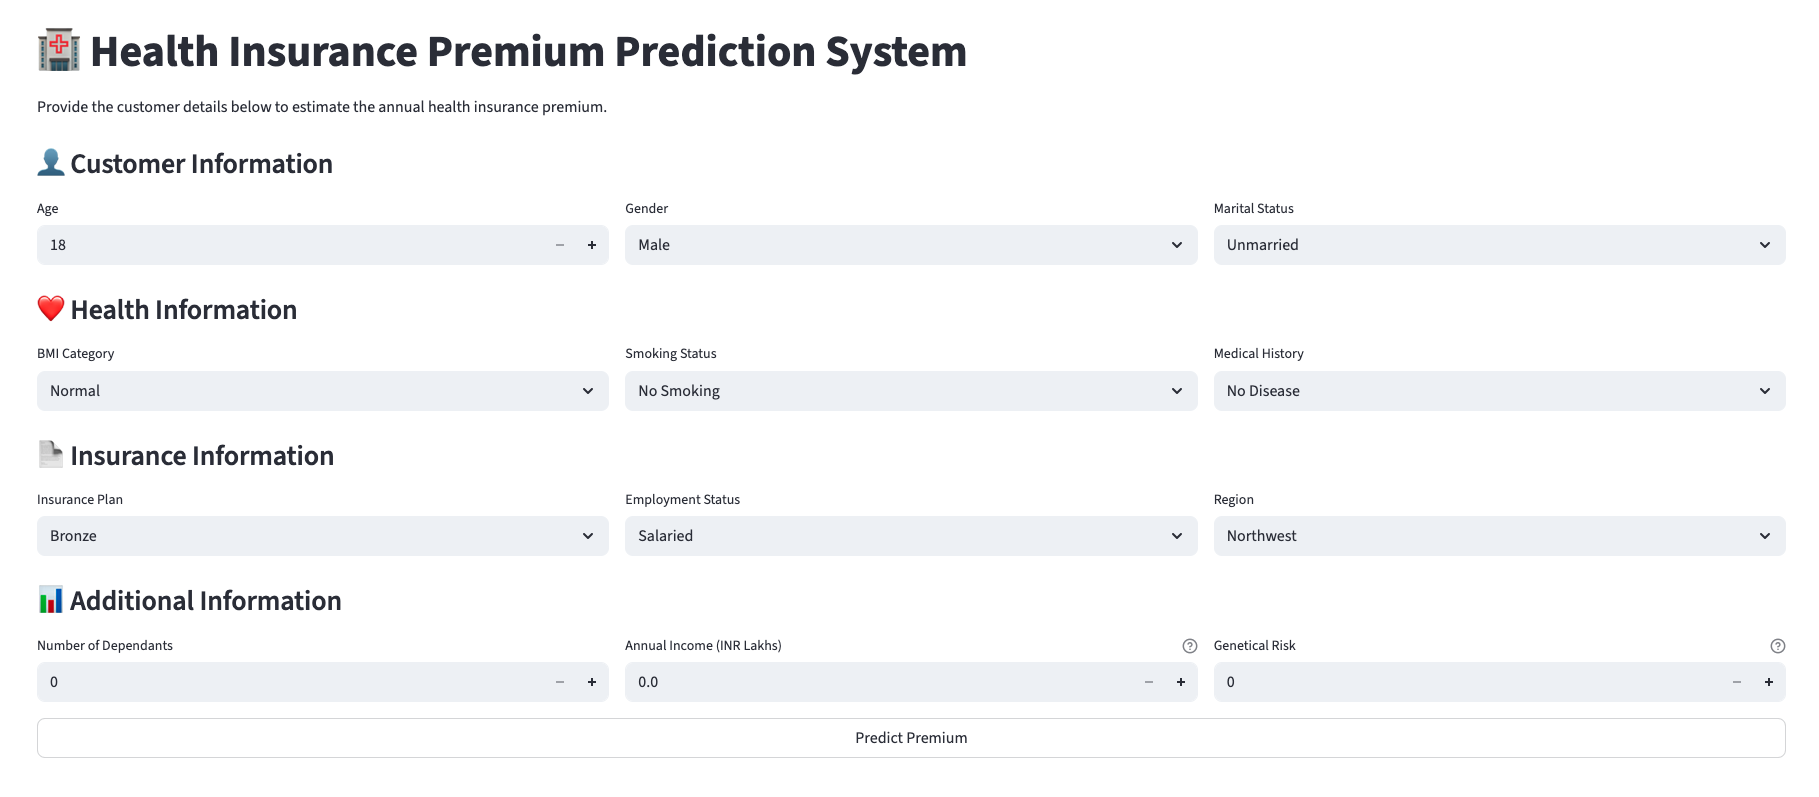
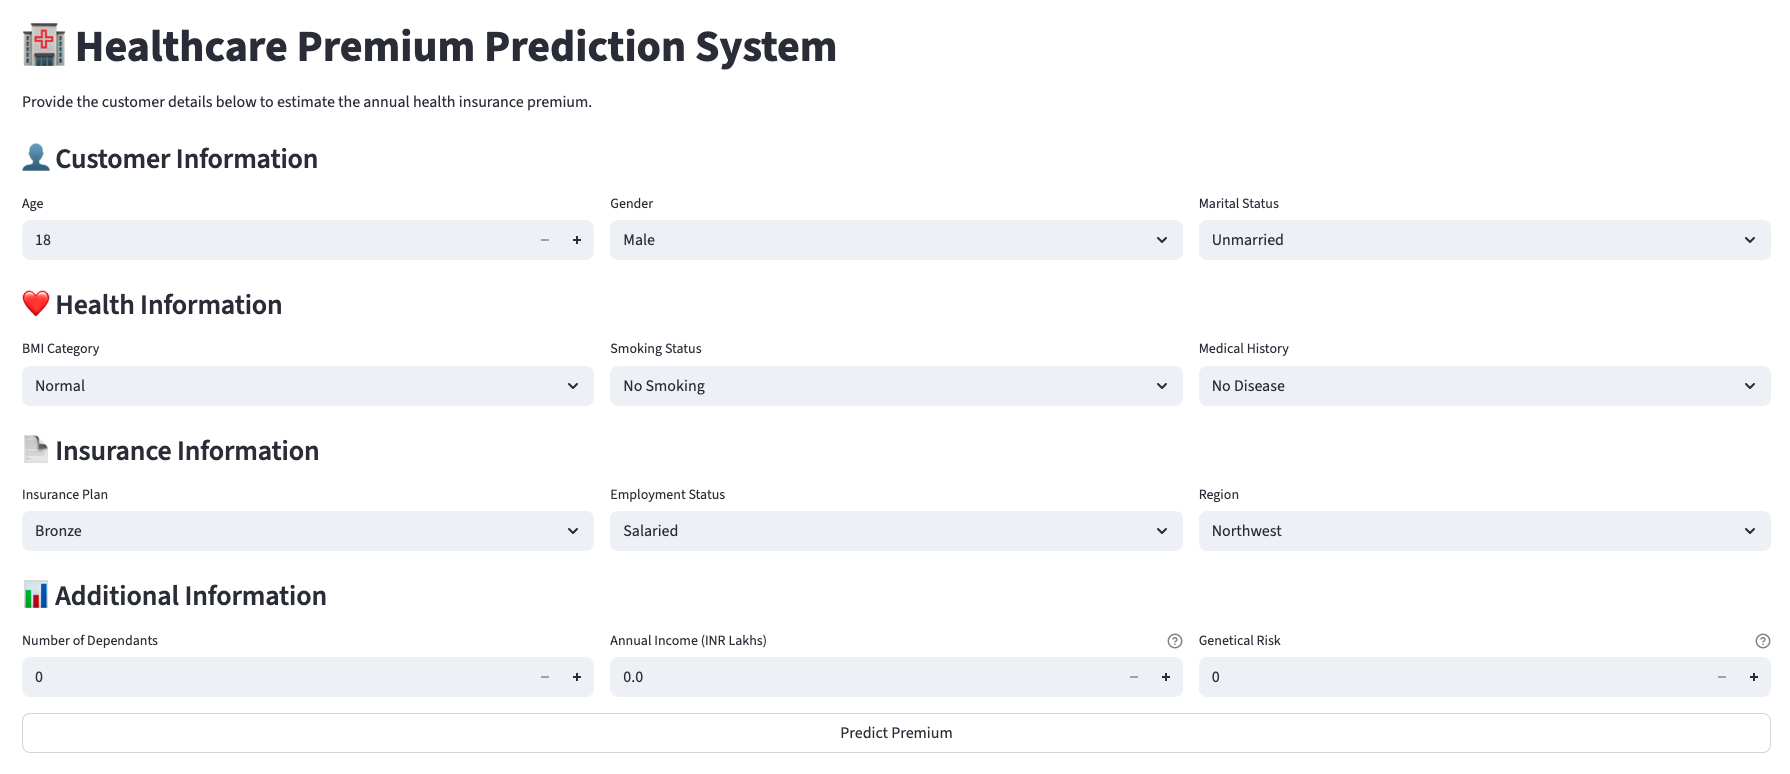
Update Streamlit app title and dashboard image

diff --git a/app/main.py b/app/main.py
@@ -6,13 +6,13 @@ from prediction_helper import predict
 # Configure Streamlit Page
 
 st.set_page_config(
-    page_title="Health Insurance Premium Prediction System",
+    page_title="Healthcare Premium Prediction System",
     page_icon="🏥",
     layout="wide")
 
 # Display Application Title
 
-st.title("🏥 Health Insurance Premium Prediction System")
+st.title("🏥 Healthcare Premium Prediction System")
 
 st.write(
     "Provide the customer details below to estimate the annual health insurance premium.")
